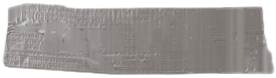
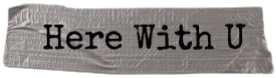
[hiwork] refactor: 贴纸改回纯素材，不显示歌名
上一版把素材上的 "Here With U" 抹掉、改用文字层渲染每张卡的歌名。
按反馈调整：贴纸就是个装饰素材，文字是素材自带的一部分。

- 素材换回 Figma 3x 原始导出件（含文字，276×78）
- 移除 .queueCdTapeText 文字层与容器查询字号方案，
  贴纸从 flex 容器简化为一张定位 img
- 定位与尺寸不变：相对封面帧 left 48.691% / top 78.534% /
  w 48.168% / h 13.613%，实测占盒宽 42.37%（设计稿 42.593%）

顺带消掉了长歌名在固定宽度胶带上必然截断的问题。
实测：文字层已无残留，光盘转动不受影响（800ms 精确推进）。

diff --git a/web/src/styles.css b/web/src/styles.css
@@ -1455,42 +1455,19 @@ p {
    相对 CD 盒：left 52.778% / top 77.387% / w 42.593% / h 13.065%。
    这里以封面帧为定位基准（.queueCdCase 即封面尺寸），换算后为
    left 48.691% / top 78.534% / w 48.168% / h 13.613%。 */
+/* 贴纸：纯装饰素材，文字（"Here With U"）是素材自带的，不替换成歌名。
+   相对 CD 盒 left 52.778% / top 77.387% / w 42.593% / h 13.065%；
+   这里以封面帧为定位基准（.queueCdCase 即封面尺寸），换算后如下。 */
 .queueCdTape {
   position: absolute;
+  z-index: 3;
   top: 78.534%;
   left: 48.691%;
-  z-index: 3;
-  display: flex;
-  /* 贴纸自身作为容器，供文字用 cq 单位跟着它缩放 */
-  container-type: size;
   width: 48.168%;
   height: 13.613%;
-  align-items: center;
-  justify-content: center;
-  background-image: var(--cd-tape-image);
-  background-position: center;
-  background-size: 100% 100%;
-  background-repeat: no-repeat;
+  /* 贴纸有撕裂边与轻微倾斜，整张按框铺满、不裁切 */
+  object-fit: fill;
   pointer-events: none;
-}
-
-.queueCdTapeText {
-  /* 设计稿是打字机字体，用等宽字体族近似 */
-  overflow: hidden;
-  /* 留出胶带两端的撕裂边，不让字压到边缘 */
-  max-width: 88%;
-  color: #17161a;
-  font-weight: 700;
-  /* 字号随贴纸高度走：卡片是响应式的（clamp 随视口变），
-     用 cqh 才能让字和胶带始终等比，不会在小卡上被截断 */
-  font-size: 52cqh;
-  font-family: "Courier New", "DM Mono", ui-monospace, monospace;
-  line-height: 1;
-  white-space: nowrap;
-  text-overflow: ellipsis;
-  letter-spacing: -0.04em;
-  /* 贴纸本身是斜着贴上去的，文字跟着倾斜才像印在胶带上 */
-  transform: rotate(-1.2deg);
 }
 
 /* 堆叠顺序照设计稿图层：封面/碟片(1) → 外壳(2) → 贴纸(3) */

diff --git a/web/src/App.tsx b/web/src/App.tsx
@@ -4318,21 +4318,14 @@ function CircularQueuePlayer({
                       src={getPublicAssetUrl("/images/cd-case-shell.png")}
                     />
                     {/* 贴纸在最上层（设计稿图层顺序：封面 → 外壳 → 贴纸）。
-                        设计稿把 "Here With U" 烤进了图里，这里只用胶带底纹，
-                        歌名用文字层叠上去，每张卡才能显示自己的歌名。 */}
-                    <span
+                        纯装饰素材，文字是素材自带的一部分，不替换成歌名。 */}
+                    <img
+                      alt=""
                       aria-hidden="true"
                       className="queueCdTape"
-                      style={
-                        {
-                          "--cd-tape-image": `url(${getPublicAssetUrl(
-                            "/images/cd-case-tape.png"
-                          )})`
-                        } as CSSProperties
-                      }
-                    >
-                      <span className="queueCdTapeText">{track.title}</span>
-                    </span>
+                      draggable={false}
+                      src={getPublicAssetUrl("/images/cd-case-tape.png")}
+                    />
                   </span>
                 </QueueCardTilt>
               </button>
